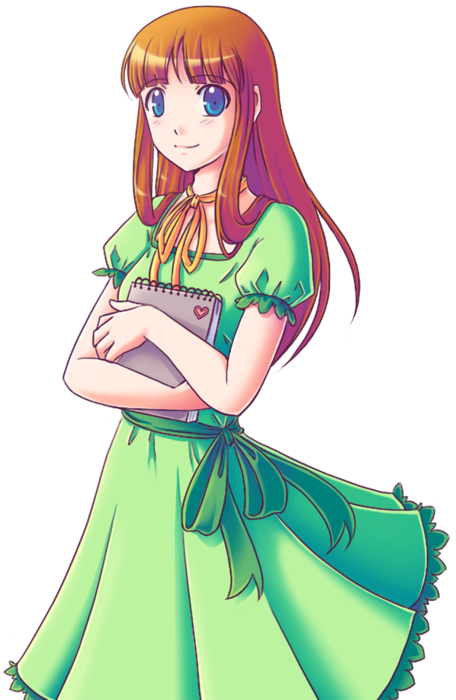
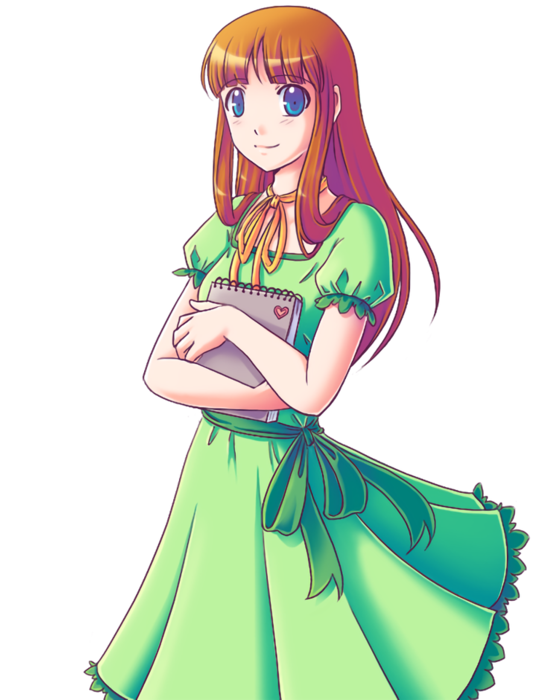
bg correct aspect

diff --git a/make_video.py b/make_video.py
@@ -45,12 +45,12 @@ with open(str(SCRIPT_DIR / "dialogues.json"), encoding="utf-8") as f:
     
 VIDEO_W = SETTINGS["video_width"]
 VIDEO_H = SETTINGS["video_height"]
+VIDEO_AR = VIDEO_W / VIDEO_H
 FPS = SETTINGS["fps"]
 AUDIO_DELAY = SETTINGS["audio_delay"]
 AUDIO_PAD = SETTINGS["audio_pad"]
 
 def load_font(size: int) -> ImageFont.FreeTypeFont:
-    """Загружает системный шрифт с поддержкой кириллицы."""
     candidates = [
         "/usr/share/fonts/truetype/dejavu/DejaVuSans.ttf",
         "/usr/share/fonts/truetype/liberation/LiberationSans-Regular.ttf",
@@ -63,7 +63,6 @@ def load_font(size: int) -> ImageFont.FreeTypeFont:
 
 
 def make_background(bg_path: Path) -> Image.Image:
-    """Загружает и масштабирует фон до размера видео."""
     if bg_path.exists():
         img = Image.open(bg_path).convert("RGBA")
     else:
@@ -75,11 +74,28 @@ def make_background(bg_path: Path) -> Image.Image:
             g = int(20 + y / VIDEO_H * 20)
             b = int(50 + y / VIDEO_H * 60)
             draw.line([(0, y), (VIDEO_W, y)], fill=(r, g, b, 255))
-    return img.resize((VIDEO_W, VIDEO_H), Image.LANCZOS)
+    
+    image_ar = img.width / img.height
+    if image_ar > VIDEO_AR:
+        temp_height = img.height
+        temp_width = img.height * VIDEO_AR
+        left = (img.width - temp_width) // 2
+        top = 0
+        right = temp_width + left
+        bottom = temp_height
+    else:
+        temp_width = img.width
+        temp_height = img.width / VIDEO_AR
+        left = 0
+        top = (img.height - temp_height) // 2
+        right = temp_width
+        bottom = temp_height + top
+        
+    cropped_img = img.crop((left, top, right, bottom))
+    return cropped_img.resize((VIDEO_W, VIDEO_H), Image.LANCZOS)
 
 
 def paste_sprite(frame: Image.Image, sprite_path: Path, align: str) -> Image.Image:
-    """Накладывает PNG спрайт персонажа на кадр."""
     if not sprite_path.exists():
         # fallback
         sprite = Image.new("RGBA", (200, 400), (200, 150, 150, 180))
@@ -91,7 +107,7 @@ def paste_sprite(frame: Image.Image, sprite_path: Path, align: str) -> Image.Ima
     # scaling
     sprite_side_margin = int(SPRITE["side_margin"] * VIDEO_W)
     sprite_bottom_offset = int(SPRITE["bottom_offset"] * VIDEO_H)
-    target_h = int(VIDEO_H * SPRITE["height_ratio"])
+    target_h = int(VIDEO_H * SPRITE["max_height"])
     ratio = target_h / sprite.height
     target_w = int(sprite.width * ratio)
     sprite = sprite.resize((target_w, target_h), Image.LANCZOS)
@@ -131,7 +147,6 @@ def auto_wrap(text: str, font: ImageFont.FreeTypeFont, max_width: int) -> str:
 
 
 def draw_dialog_box(frame: Image.Image, character: str, text: str) -> Image.Image:
-    """Рисует диалоговое окно с именем и текстом реплики."""
     char_cfg = CHARACTERS[character]
     short_side = min(VIDEO_W, VIDEO_H)
     
@@ -211,7 +226,6 @@ def generate_audio(line: dict, out_path: Path) -> float:
 
 
 def make_frame(line: dict, bg: Image.Image) -> Image.Image:
-    """Собирает один кадр: фон + спрайт + диалоговое окно."""
     frame = bg.copy()
     char_cfg = CHARACTERS[line['character']]
     image_path = CHARACTER_SPRITE_DIR / f"{line['character']}-{line['image']}.png"
@@ -223,7 +237,7 @@ def make_frame(line: dict, bg: Image.Image) -> Image.Image:
 def render_scene(idx: int, line: dict, bg: Image.Image, audio_path: Path, 
                duration: float,
                scene_path: Path):
-    """Рендерит одну сцену (статичный кадр + аудио) в MP4."""
+    
     frame = make_frame(line, bg)
     frame_path = OUTPUT_DIR / f"frame_{idx:03d}.png"
     frame.convert("RGB").save(str(frame_path))
@@ -248,7 +262,6 @@ def render_scene(idx: int, line: dict, bg: Image.Image, audio_path: Path,
 
 
 def concat_scenes(scene_paths: list[Path], output_path: Path):
-    """Склеивает все сцены в один финальный файл."""
     list_file = OUTPUT_DIR / "concat_list.txt"
     with open(list_file, "w") as f:
         for p in scene_paths:
@@ -269,7 +282,7 @@ def concat_scenes(scene_paths: list[Path], output_path: Path):
 def main():
     for dialogue_index, dialogue in enumerate(DIALOGUES):
         print(f"\n[*] Creating dialogue {dialogue_index+1}/{len(DIALOGUES)} ({dialogue['tag']})...\n")
-        bg = make_background(BACKGROUND_DIR / f"{dialogue['background']}.jpg")
+        bg = make_background(BACKGROUND_DIR / f"{dialogue['background']}.png")
 
         scene_paths = []
 

diff --git a/make_timeline.py b/make_timeline.py
@@ -43,6 +43,7 @@ with open(str(SCRIPT_DIR / "dialogues.json"), encoding="utf-8") as f:
 
 VIDEO_W = SETTINGS["video_width"]
 VIDEO_H = SETTINGS["video_height"]
+VIDEO_AR = VIDEO_W / VIDEO_H
 FPS = SETTINGS["fps"]
 AUDIO_DELAY = SETTINGS["audio_delay"]
 AUDIO_PAD = SETTINGS["audio_pad"]
@@ -207,7 +208,7 @@ def add_sprite(root_dir: Path, character: str, tag: str, pos: str) -> Path:
     
     sprite_side_margin = int(SPRITE["side_margin"] * VIDEO_W)
     sprite_bottom_offset = int(SPRITE["bottom_offset"] * VIDEO_H)
-    target_h = int(VIDEO_H * SPRITE["height_ratio"])
+    target_h = int(VIDEO_H * SPRITE["max_height"])
     ratio = target_h / sprite_image.height
     target_w = int(sprite_image.width * ratio)
     sprite_image = sprite_image.resize((target_w, target_h), Image.LANCZOS)
@@ -224,8 +225,48 @@ def add_sprite(root_dir: Path, character: str, tag: str, pos: str) -> Path:
     img.save(str(sprite_path))
     
     return sprite_path
+    
+def make_background(root_dir: Path, bgTag: str) -> Path:
+    bg_src = BACKGROUND_DIR / f"{bgTag}.png"
+    print(bg_src)
+    bg_path = root_dir / "images" / f"background-{bgTag}.png"
+    
+    if bg_src.exists():
+        img = Image.open(bg_src).convert("RGBA")
+    else:
+        # fallback
+        img = Image.new("RGBA", (VIDEO_W, VIDEO_H), (30, 30, 60, 255))
+        draw = ImageDraw.Draw(img)
+        for y in range(VIDEO_H):
+            r = int(20 + y / VIDEO_H * 30)
+            g = int(20 + y / VIDEO_H * 20)
+            b = int(50 + y / VIDEO_H * 60)
+            draw.line([(0, y), (VIDEO_W, y)], fill=(r, g, b, 255))
+    
+    image_ar = img.width / img.height
+    if image_ar > VIDEO_AR:
+        temp_height = img.height
+        temp_width = img.height * VIDEO_AR
+        left = (img.width - temp_width) // 2
+        top = 0
+        right = temp_width + left
+        bottom = temp_height
+    else:
+        temp_width = img.width
+        temp_height = img.width / VIDEO_AR
+        left = 0
+        top = (img.height - temp_height) // 2
+        right = temp_width
+        bottom = temp_height + top
+        
+    cropped_img = img.crop((left, top, right, bottom))
+    resized_img = cropped_img.resize((VIDEO_W, VIDEO_H), Image.LANCZOS)
+    resized_img.save(str(bg_path))
+    
+    return bg_path
+    
       
-def build_timeline(dtag: str, scenes: list[dict], bg: str, lang: str) -> otio.schema.Timeline:
+def build_timeline(dtag: str, scenes: list[dict], bg_path: Path, dialog_path: Path, lang: str) -> otio.schema.Timeline:
     """
     Tracks
       V1  background
@@ -237,14 +278,7 @@ def build_timeline(dtag: str, scenes: list[dict], bg: str, lang: str) -> otio.sc
     
     timeline = otio.schema.Timeline(name=dtag)
     tracks = timeline.tracks
-
-    root_dir = OUTPUT_DIR / dtag
     total_frames = sum(s["frames"] for s in scenes)
-    bg_src = BACKGROUND_DIR / f"{bg}.jpg"
-    bg_path = root_dir / "images" / f"background-{bg}.jpg"
-    shutil.copyfile(bg_src, bg_path)
-    
-    dialogbox_path = generate_dialogbox_png(root_dir)
 
     # V1: background
     v1 = otio.schema.Track(name="background", kind=otio.schema.TrackKind.Video)
@@ -262,7 +296,7 @@ def build_timeline(dtag: str, scenes: list[dict], bg: str, lang: str) -> otio.sc
 
     # V3: dialog box
     v3 = otio.schema.Track(name="dialogbox", kind=otio.schema.TrackKind.Video)
-    v3.append(make_clip("dialogbox", dialogbox_path, total_frames))
+    v3.append(make_clip("dialogbox", dialog_path, total_frames))
     tracks.append(v3)
 
     #V4: text
@@ -290,6 +324,9 @@ def main():
         os.mkdir(root_dir / "images")
         os.mkdir(root_dir / "audio")
         
+        bg_path = make_background(root_dir, dialogue['background'])
+        dialog_path = generate_dialogbox_png(root_dir)
+        
         scenes = []
 
         for idx, line in enumerate(dialogue['lines']):
@@ -311,7 +348,7 @@ def main():
             print(f"    {frames/FPS:.1f}s  ({int(frames)} frames)")
 
         print("  Assembling timeline...")
-        timeline = build_timeline(dialogue['tag'], scenes, bg=dialogue['background'], lang=dialogue['lang'])
+        timeline = build_timeline(dialogue['tag'], scenes, bg_path=bg_path, dialog_path=dialog_path, lang=dialogue['lang'])
 
         otio_path = root_dir / f"{dialogue['tag']}.otio"
         otio.adapters.write_to_file(timeline, str(otio_path))
